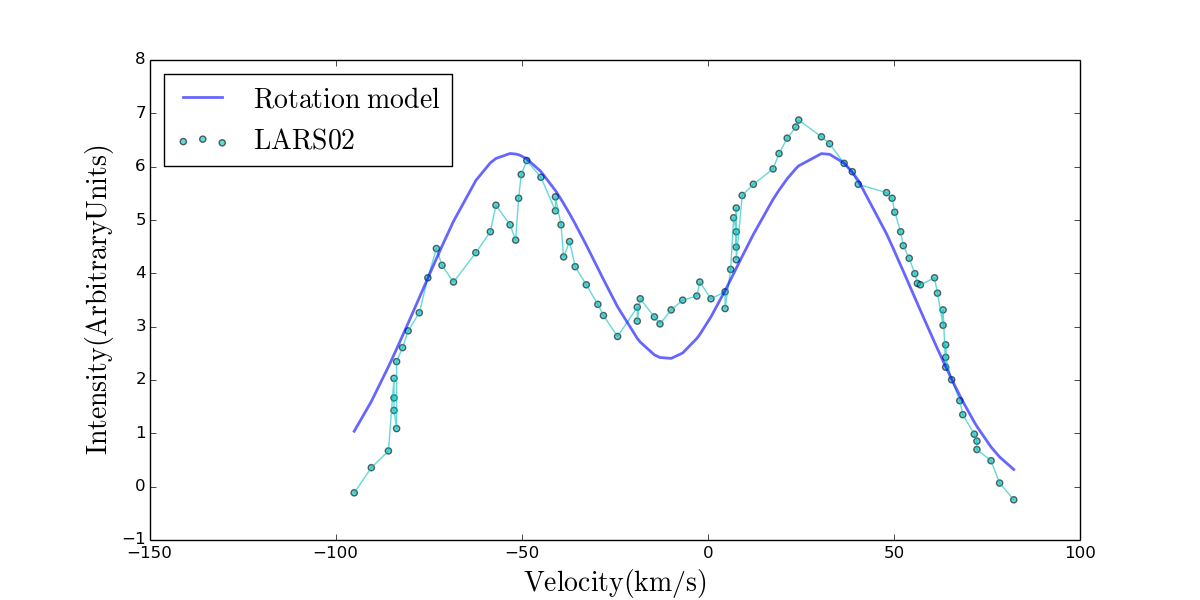
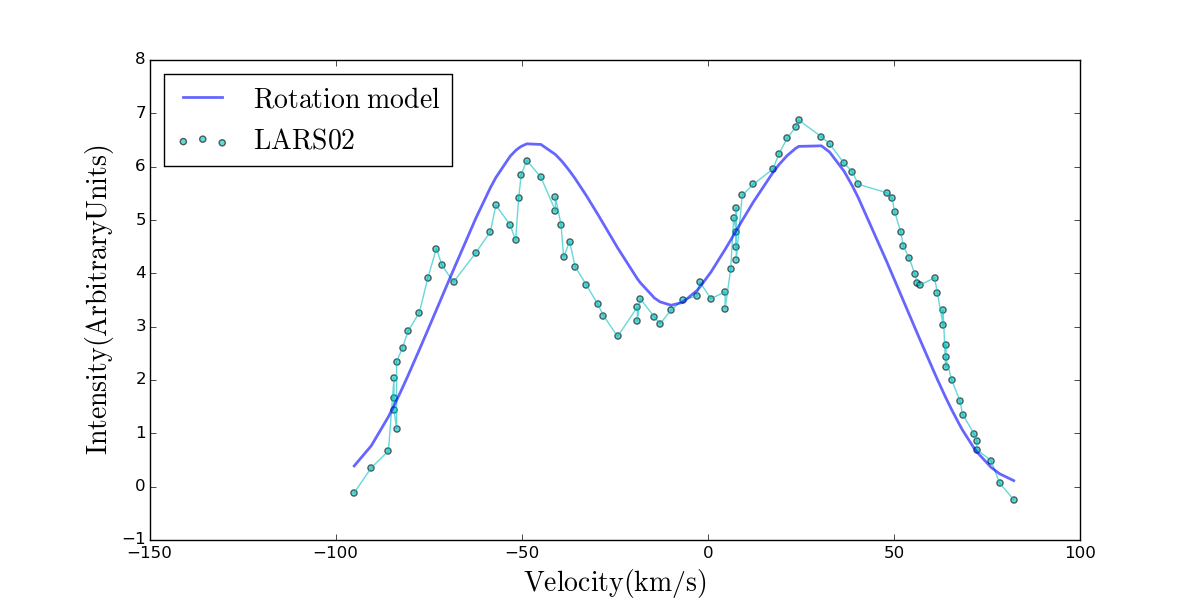
plots

diff --git a/code/histograms.py b/code/histograms.py
@@ -1,0 +1,83 @@
+from numpy import *
+from matplotlib.pyplot import *
+from scipy.interpolate import interp1d
+import triangle
+import os
+
+#Info
+nwalkers = 10
+nsteps = 2000
+nparameters = 5
+
+z = 0.029836
+c = 299792.458
+
+#Data
+samples = loadtxt('./sampler_flatchain.dat', delimiter=',')
+
+logtaus = samples[:,0]
+vmaxs = samples[:,1]
+thetas = samples[:,2]
+logTs = samples[:,3]
+voffs = samples[:,4]
+
+#Histograms
+labels=[r"$\log{\tau}$", "$v_{max}$", r"$\theta$", "$\log{T}$", "$\Delta v_{off}$"]
+
+#logtau
+fig = figure()
+
+n,b,p = hist(logtaus, bins=100, histtype='step')
+logtau_b = b[argmax(n)]
+vlines(logtau_b, 0, 400)
+xlabel(labels[0])
+ylabel('$\mathrm{N}$')
+
+savefig('./histograms_logtau.png')
+
+#vmax
+fig = figure()
+
+n,b,p = hist(vmaxs, bins=100, histtype='step')
+vmax_b = b[argmax(n)]
+vlines(vmax_b, 0, 700)
+xlabel(labels[1])
+ylabel('$\mathrm{N}$')
+
+savefig('./histograms_vmax.png')
+
+#theta
+fig = figure()
+
+n,b,p = hist(thetas, bins=100, histtype='step')
+theta_b = b[argmax(n)]
+vlines(theta_b, 0, 1200)
+xlabel(labels[2])
+ylabel('$\mathrm{N}$')
+
+savefig('./histograms_theta.png')
+
+#logT
+fig = figure()
+
+n,b,p = hist(logTs, bins=100, histtype='step')
+logT_b = b[argmax(n)]
+vlines(logT_b, 0, 450)
+xlabel(labels[3])
+ylabel('$\mathrm{N}$')
+
+savefig('./histograms_logT.png')
+
+#voff
+fig = figure()
+
+n,b,p = hist(voffs, bins=100, histtype='step')
+voff_b = b[argmax(n)]
+vlines(voff_b, 0, 800)
+xlabel(labels[4])
+ylabel('$\mathrm{N}$')
+
+savefig('./histograms_voff.png')
+
+#Best parameters
+os.system('echo "'+str(logtau_b)+','+str(vmax_b)+','+str(theta_b)+','+str(logT_b)+','+str(voff_b)+'" > best_parameters.dat')

diff --git a/code/plots.py b/code/plots.py
@@ -6,18 +6,30 @@ import os
 
 #Info
 nwalkers = 10
-nsteps = 100
+nsteps = 2000
 nparameters = 5
 
 z = 0.029836
 c = 299792.458
 
+#Data
+lars = loadtxt('./LARS02.txt')
+samples = loadtxt('./sampler_flatchain.dat', delimiter=',')
+
+x_data = lars[:-17,0] - c*z
+y_data = lars[:-17,1]
+
 #Best parameters
-logtau_b = 5
-vmax_b = 50
-theta_b = 45
-logT_b = 4
-voff_b = -11
+
+f_best = open('./best_parameters.dat')
+best = f_best.readline().split(',')
+f_best.close()
+
+logtau_b = float(best[0])
+vmax_b = float(best[1])
+theta_b = float(best[2])
+logT_b = float(best[3])
+voff_b = float(best[4].split(r'\n')[0])
 
 #Functions
 def model_to_data_interp(x_m, y_m, x_d):
@@ -54,17 +66,11 @@ def model(logtau, vmax, theta, logT, voff, x_d, y_d):
 
     return x_m, y_m
 
-#Data
-lars = loadtxt('./LARS02.txt')
-samples = loadtxt('./sampler_flatchain.dat', delimiter=',')
-
-x_data = lars[:-17,0] - c*z
-y_data = lars[:-17,1]
-
-x_model, y_model = model(logtau_b, vmax_b, theta_b, logT_b, voff_b, x_data, y_data)
 
 #Plot fit and original
 fig = figure(figsize=(12,6))
+
+x_model, y_model = model(logtau_b, vmax_b, theta_b, logT_b, voff_b, x_data, y_data)
 
 scatter(x_data, y_data, c='c', alpha=0.6, label='$\mathrm{LARS 02}$')
 plot(x_data, y_data, c='c', alpha=0.6)
@@ -75,6 +81,7 @@ ylabel('$\mathrm{Intensity (Arbitrary Units)}$', fontsize=20)
 legend(loc='best', fontsize=20)
 
 savefig('./mcmc.png')
+
 
 # Walkers plot
 clf()
